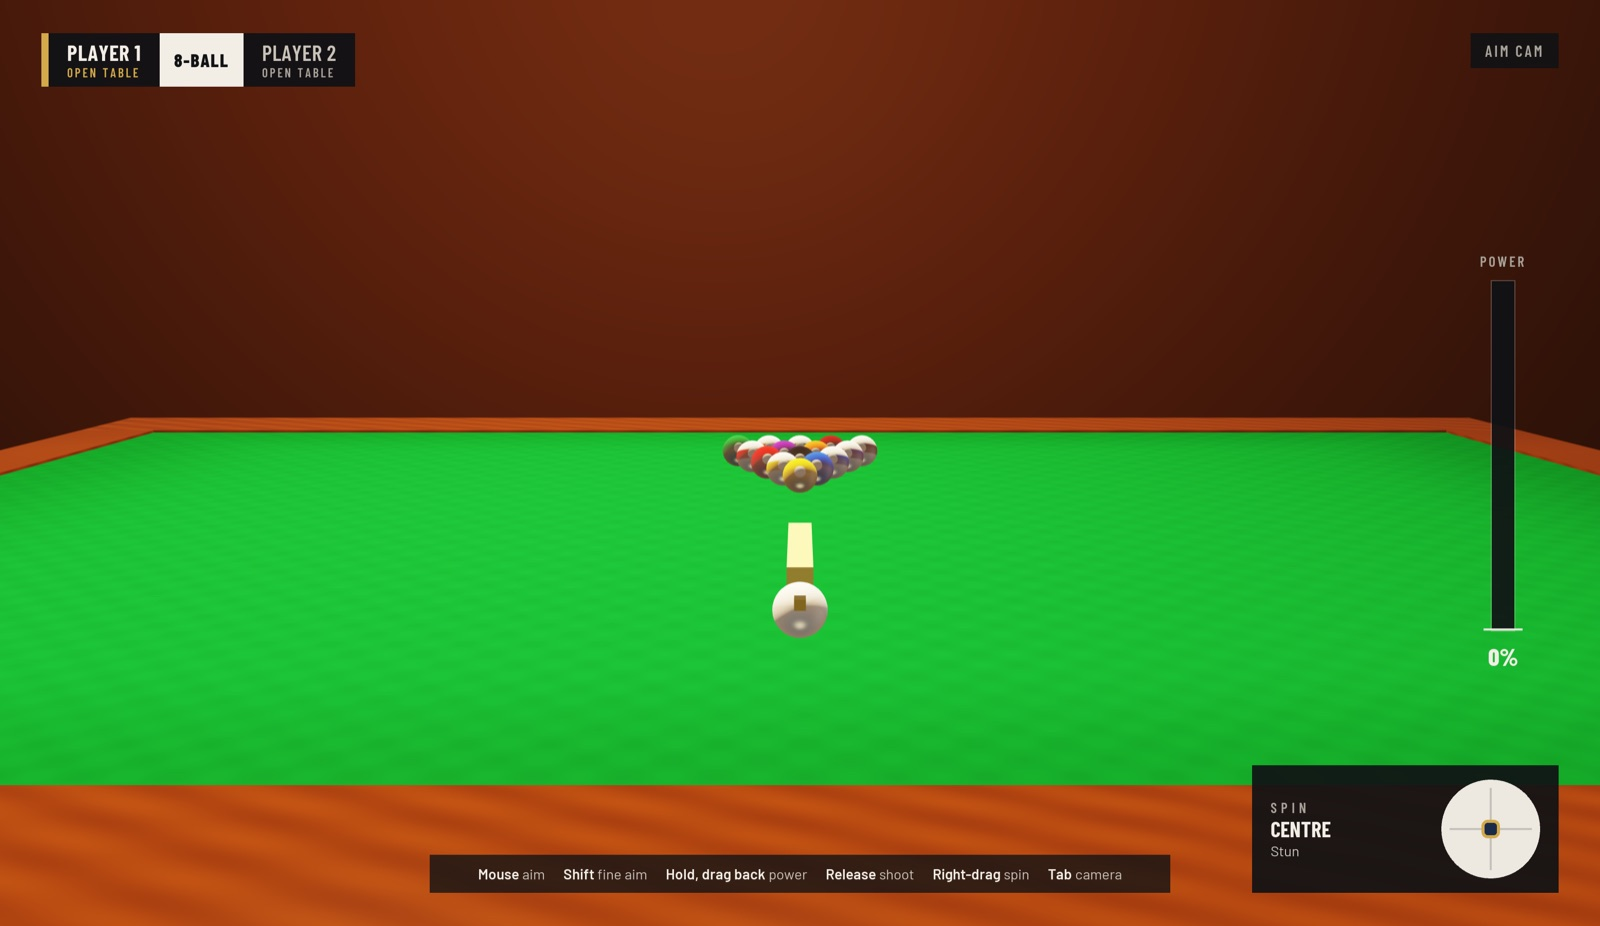
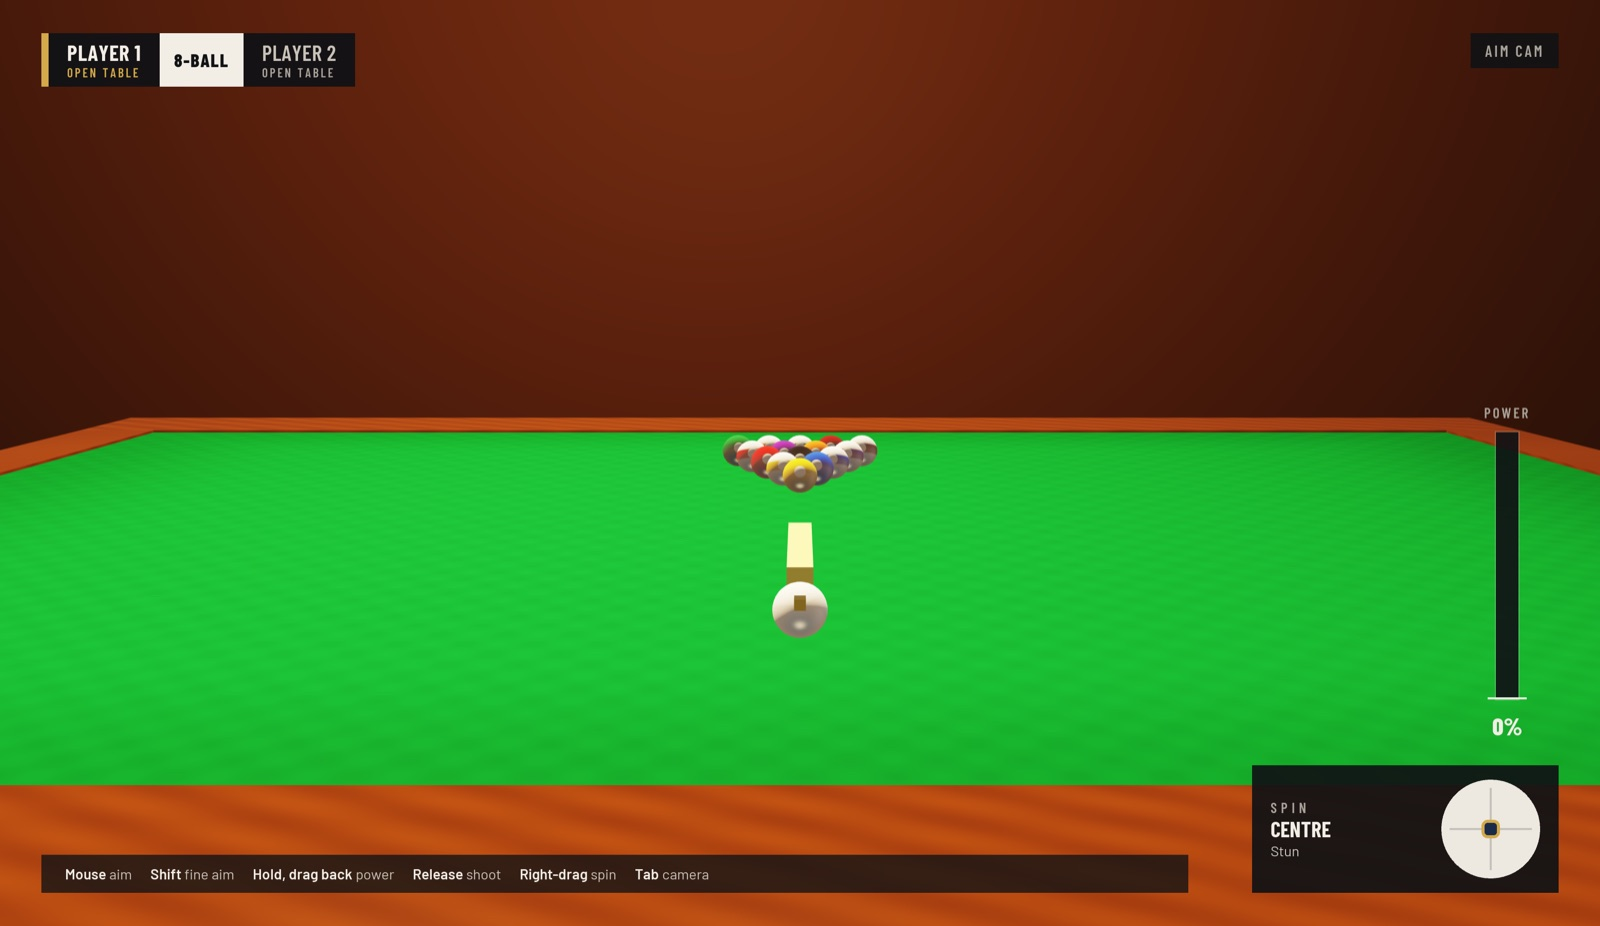
chore(release): 0.3.0 — milestone M2, UX foundation
Version bump, changelog section, roadmap status and refreshed README
screenshots (title, hub, aiming, foul, settings, pause).

diff --git a/README.md b/README.md
@@ -3,17 +3,19 @@
 A realism-first 3D pool game presented like a televised tournament.
 Built from scratch in C++20 and OpenGL 4.1 — no game engine.
 
-> **Status:** early development. The `v0.1.0-prototype` tag is a playable
-> 8-ball prototype. Work toward v1.0 (event-based physics, full WPA rules,
+> **Status:** early development. `v0.3.0` is a playable two-player 8-ball
+> game with the broadcast frontend. Work toward v1.0 (event-based physics, full WPA rules,
 > AI opponents, career mode) is tracked in [`docs/ARCHITECTURE.md`](docs/ARCHITECTURE.md).
 
 ## Screenshots
 
-| Main menu | Aiming |
-|-----------|--------|
-| ![Main menu over the live table](docs/media/main.jpg) | ![Aiming with the broadcast HUD](docs/media/game.jpg) |
-| **Referee call after a scratch** | **Pause** |
-| ![Foul banner and ball-in-hand lower third](docs/media/foul.jpg) | ![Pause menu over the blurred table](docs/media/pause.jpg) |
+| Title | Main hub |
+|-------|----------|
+| ![Title screen over the live hall](docs/media/title.jpg) | ![Main hub with the table beside the menu](docs/media/main.jpg) |
+| **Aiming** | **Referee call after a scratch** |
+| ![Aiming with the broadcast HUD](docs/media/game.jpg) | ![Foul banner and ball-in-hand lower third](docs/media/foul.jpg) |
+| **Settings** | **Pause** |
+| ![Settings screen](docs/media/settings.jpg) | ![Pause menu over the blurred table](docs/media/pause.jpg) |
 
 Work in progress: the menus and HUD are final in style; table lighting and
 materials are scheduled for the hall-visuals milestone.

diff --git a/CHANGELOG.md b/CHANGELOG.md
@@ -6,6 +6,13 @@ All notable changes to Billiards Saloon. The format follows
 
 ## [Unreleased]
 
+Deferred from M2: remappable controls (with the M11 settings work) and UI
+sound cues (with M7 audio).
+
+## [0.3.0] - 2026-10-05
+
+Milestone M2: UX foundation and broadcast frontend.
+
 ### Added
 - Main and pause menus rebuilt with RmlUi: broadcast-style slanted bars,
   Barlow typefaces, hover and keyboard focus states, a blurred pause overlay.
@@ -84,6 +91,7 @@ Playable 8-ball prototype: local two-player 8-ball with fouls and turn
 resolution, a fixed-step physics model with sliding and rolling, camera modes,
 and main and pause menus.
 
-[Unreleased]: https://github.com/YoussefSah05/BillardsSaloon-GL/compare/v0.2.0...HEAD
+[Unreleased]: https://github.com/YoussefSah05/BillardsSaloon-GL/compare/v0.3.0...HEAD
+[0.3.0]: https://github.com/YoussefSah05/BillardsSaloon-GL/compare/v0.2.0...v0.3.0
 [0.2.0]: https://github.com/YoussefSah05/BillardsSaloon-GL/compare/v0.1.0-prototype...v0.2.0
 [0.1.0-prototype]: https://github.com/YoussefSah05/BillardsSaloon-GL/releases/tag/v0.1.0-prototype

diff --git a/docs/README.md b/docs/README.md
@@ -52,8 +52,8 @@ mouse / keyboard ──► Input ──► ShotControls ──► MatchSession (
 |-----------|--------|
 | M0 Housekeeping, docs, knowledge graph | done |
 | M1 Foundation: library split, tests, CI, JSON data, mouse controls, fullscreen | done (v0.2.0) |
-| M2 UX foundation: RmlUi menus and HUD, settings, frontend flow, gamepad, accessibility | in progress |
-| M3 Event-based physics | planned |
+| M2 UX foundation: RmlUi menus and HUD, settings, frontend flow, gamepad, accessibility | done (v0.3.0) |
+| M3 Event-based physics | next |
 | M4 WPA rules and referee | planned |
 | M5 Shot input and broadcast presentation | planned |
 | M6 Hall visuals, realism, equipment customization | planned |

diff --git a/docs/ARCHITECTURE.md b/docs/ARCHITECTURE.md
@@ -83,7 +83,7 @@ Following Leckie & Greenspan (2006) and pooltool (Kiefl, JOSS 2024):
 ### Milestone order
 
 M0 housekeeping ✅ · M1 foundation ✅ · M2 UX foundation and broadcast
-frontend · M3 event-based physics · M4 WPA rules and referee · M5 shot input
+frontend ✅ · M3 event-based physics · M4 WPA rules and referee · M5 shot input
 and presentation · M6 hall visuals, realism and customization · M7 audio ·
 M8 AI v1 (classical search) · M9 intelligence (self-play learning, starts
 after M3 and runs in parallel) · M10 modes · M11 ship.
